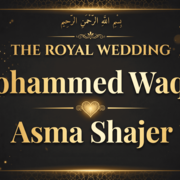
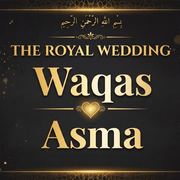
refactor(meta): update metadata and dynamic share URL
- Update social sharing icons and OpenGraph tags
- Update meta description and URL for better social indexing
- Introduce public URL normalization in ShareModal
- Use dynamic configuration for Valima timing and notes

diff --git a/index.html b/index.html
@@ -12,35 +12,42 @@
     <meta name="apple-mobile-web-app-status-bar-style" content="black-translucent" />
     <meta name="apple-mobile-web-app-title" content="Waqas & Asma" />
     <link rel="apple-touch-icon" sizes="180x180" href="/apple-touch-icon.png" />
-    <link rel="icon" type="image/png" sizes="192x192" href="/metaa.png" />
-    <link rel="image_src" href="/metaa.png" />
+    <link rel="icon" type="image/png" sizes="192x192" href="/icon-192.png" />
+    <link rel="icon" type="image/png" sizes="512x512" href="/icon-512.png" />
+    <link rel="image_src" href="https://ais-pre-fwru2o6zrcaaozjoec3zxz-933593385806.asia-east1.run.app/wmeta.jpg" />
 
-    <!-- OpenGraph & WhatsApp Social Preview Tags -->
+    <!-- OpenGraph & WhatsApp Social Preview Tags (WhatsApp Android & iPhone) -->
     <meta property="og:type" content="website" />
     <meta property="og:site_name" content="Mohammed Waqas & Asma Shajer" />
     <meta property="og:title" content="💍 Mohammed Waqas & Asma Shajer — Wedding Invitation" />
-    <meta property="og:description" content="Wedding Invitation of Mohammed Waqas & Asma Shajer · 31st December 2026" />
-    <meta property="og:image" content="/metaa.png" />
-    <meta property="og:image:secure_url" content="/metaa.png" />
+    <meta property="og:description" content="We cordially solicit your gracious presence, blessings & prayers at the Nikkah & Valima celebration on Thursday, 31st December 2026." />
+    <meta property="og:url" content="https://ais-pre-fwru2o6zrcaaozjoec3zxz-933593385806.asia-east1.run.app/" />
+
+    <!-- Primary Compressed Landscape Image (136 KB, < 300KB WhatsApp limit) -->
+    <meta property="og:image" content="https://ais-pre-fwru2o6zrcaaozjoec3zxz-933593385806.asia-east1.run.app/wmeta.jpg" />
+    <meta property="og:image:secure_url" content="https://ais-pre-fwru2o6zrcaaozjoec3zxz-933593385806.asia-east1.run.app/wmeta.jpg" />
+    <meta property="og:image:type" content="image/jpeg" />
+    <meta property="og:image:width" content="1200" />
+    <meta property="og:image:height" content="630" />
+    <meta property="og:image:alt" content="The Royal Wedding - Mohammed Waqas & Asma Shajer" />
+
+    <!-- Secondary PNG Image Fallback (268 KB) -->
+    <meta property="og:image" content="https://ais-pre-fwru2o6zrcaaozjoec3zxz-933593385806.asia-east1.run.app/wmeta.png" />
+    <meta property="og:image:secure_url" content="https://ais-pre-fwru2o6zrcaaozjoec3zxz-933593385806.asia-east1.run.app/wmeta.png" />
     <meta property="og:image:type" content="image/png" />
     <meta property="og:image:width" content="1200" />
-    <meta property="og:image:height" content="634" />
-    <meta property="og:image:alt" content="Mohammed Waqas & Asma Shajer Wedding Invitation" />
-
-    <!-- Secondary JPG Fallback for Maximum Mobile Scraper Compatibility -->
-    <meta property="og:image" content="/metaa.jpg" />
-    <meta property="og:image:type" content="image/jpeg" />
+    <meta property="og:image:height" content="630" />
 
     <!-- Google / Microdata Itemprop Tags (WhatsApp / Telegram crawler fallback) -->
     <meta itemprop="name" content="💍 Mohammed Waqas & Asma Shajer — Wedding Invitation" />
-    <meta itemprop="description" content="Wedding Invitation of Mohammed Waqas & Asma Shajer · 31st December 2026" />
-    <meta itemprop="image" content="/metaa.png" />
+    <meta itemprop="description" content="We cordially solicit your gracious presence, blessings & prayers at the Nikkah & Valima celebration on Thursday, 31st December 2026." />
+    <meta itemprop="image" content="https://ais-pre-fwru2o6zrcaaozjoec3zxz-933593385806.asia-east1.run.app/wmeta.jpg" />
     
     <!-- Twitter / X Card -->
     <meta name="twitter:card" content="summary_large_image" />
     <meta name="twitter:title" content="💍 Mohammed Waqas & Asma Shajer — Wedding Invitation" />
-    <meta name="twitter:description" content="Wedding Invitation of Mohammed Waqas & Asma Shajer · 31st December 2026" />
-    <meta name="twitter:image" content="/metaa.png" />
+    <meta name="twitter:description" content="We cordially solicit your gracious presence, blessings & prayers at the Nikkah & Valima celebration on Thursday, 31st December 2026." />
+    <meta name="twitter:image" content="https://ais-pre-fwru2o6zrcaaozjoec3zxz-933593385806.asia-east1.run.app/wmeta.jpg" />
 
     <!-- Schema.org Structured Data -->
     <script type="application/ld+json">

diff --git a/src/data/translations.ts b/src/data/translations.ts
@@ -25,6 +25,7 @@ export interface TranslationData {
   nikkahDesc: string;
   valimaTitle: string;
   valimaTime: string;
+  afterZuharNote: string;
   valimaVenue: string;
   valimaDesc: string;
   countdownDaysLeft: string;
@@ -93,7 +94,8 @@ export const translations: Record<Language, TranslationData> = {
     nikkahVenue: "Choti Masjid, Ambur",
     nikkahDesc: "The sacred solemnization of marriage according to the Sunnah of Prophet Muhammad (ﷺ).",
     valimaTitle: "Valima Reception",
-    valimaTime: "12:00 PM (After Zuhar Salah)",
+    valimaTime: "12:00 PM",
+    afterZuharNote: "(After Zuhar)",
     valimaVenue: "Buwa Shaadi Mahal, Ambur",
     valimaDesc: "The wedding feast celebration with family, loved ones, and esteemed guests.",
     countdownDaysLeft: "Days to Go",
@@ -160,7 +162,8 @@ export const translations: Record<Language, TranslationData> = {
     nikkahVenue: "چھوٹی مسجد، امبور",
     nikkahDesc: "سنتِ نبوی (ﷺ) کے مطابق تقریبِ نکاح کا پاکیزہ انعقاد۔",
     valimaTitle: "تقریبِ ولیمہ",
-    valimaTime: "دوپہر ۱۲:۰۰ بجے (بعد نمازِ ظہر)",
+    valimaTime: "دوپہر ۱۲:۰۰ بجے",
+    afterZuharNote: "(بعد نمازِ ظہر)",
     valimaVenue: "بووا شادی محل، امبور",
     valimaDesc: "معزز مہمانوں کے ساتھ پرمسرت ضیافتِ ولیمہ۔",
     countdownDaysLeft: "دن باقی ہیں",
@@ -227,7 +230,8 @@ export const translations: Record<Language, TranslationData> = {
     nikkahVenue: "சோட்டி மஸ்ஜித், ஆம்பூர்",
     nikkahDesc: "நபிகள் நாயகம் (ஸல்) அவர்களின் புனித சுன்னத்தின்படி நிக்காஹ் வைபவம் நடைபெறும்.",
     valimaTitle: "வலீமா வரவேற்பு விருந்து",
-    valimaTime: "நண்பகல் 12:00 மணி (ளுஹர் தொழுகைக்குப் பின்)",
+    valimaTime: "நண்பகல் 12:00 மணி",
+    afterZuharNote: "(ளுஹர் தொழுகைக்குப் பின்)",
     valimaVenue: "புவா ஷாதி மஹால், ஆம்பூர்",
     valimaDesc: "உற்றார், உறவினர்கள் மற்றும் நண்பர்களுக்கான திருமண விருந்து உபசரிப்பு.",
     countdownDaysLeft: "நாட்கள் மீதமுள்ளன",

diff --git a/src/components/ShareModal.tsx b/src/components/ShareModal.tsx
@@ -14,10 +14,28 @@ export const ShareModal: React.FC<ShareModalProps> = ({ isOpen, onClose, lang })
   const [copied, setCopied] = useState(false);
   const t = translations[lang];
 
+  const getPublicShareUrl = (): string => {
+    if (typeof window === 'undefined') return 'https://ais-pre-fwru2o6zrcaaozjoec3zxz-933593385806.asia-east1.run.app';
+    let url = window.location.href;
+    // Map internal AI Studio development URLs to public preview so WhatsApp and guests can access without login
+    if (url.includes('ais-dev-')) {
+      url = url.replace('ais-dev-', 'ais-pre-');
+    }
+    try {
+      const u = new URL(url);
+      u.search = '';
+      u.hash = '';
+      return u.toString();
+    } catch {
+      return url;
+    }
+  };
+
+  const currentUrl = getPublicShareUrl();
+
   useEffect(() => {
     if (isOpen) {
-      const inviteUrl = window.location.href;
-      QRCode.toDataURL(inviteUrl, {
+      QRCode.toDataURL(currentUrl, {
         width: 320,
         margin: 2,
         color: {
@@ -28,11 +46,9 @@ export const ShareModal: React.FC<ShareModalProps> = ({ isOpen, onClose, lang })
         .then((url) => setQrDataUrl(url))
         .catch((err) => console.error('Failed to generate QR code', err));
     }
-  }, [isOpen]);
+  }, [isOpen, currentUrl]);
 
   if (!isOpen) return null;
-
-  const currentUrl = typeof window !== 'undefined' ? window.location.href : '';
 
   const handleWhatsAppShare = () => {
     const message = t.whatsappMessage.includes('{link}')

diff --git a/src/components/CompactItinerary.tsx b/src/components/CompactItinerary.tsx
@@ -104,9 +104,9 @@ export const CompactItinerary: React.FC<CompactItineraryProps> = ({ lang }) => {
               </div>
               <p className="font-playfair text-sm sm:text-base font-bold text-white flex items-center gap-1">
                 <Clock className="w-3 h-3 text-[#D4AF37]" />
-                <span>12:00 PM</span>
+                <span>{t.valimaTime}</span>
                 <span className="text-[10px] text-neutral-400 font-normal ml-1">
-                  (After Zuhar)
+                  {t.afterZuharNote}
                 </span>
               </p>
               <p className="text-[11px] text-[#FDE68A] font-medium flex items-center gap-1 mt-0.5">

diff --git a/src/App.tsx b/src/App.tsx
@@ -421,7 +421,7 @@ export default function App() {
                     </div>
                     <div className="flex items-center gap-1 text-[11px] font-bold text-white bg-white/[0.05] px-2 py-0.5 rounded-full border border-white/[0.08]">
                       <Clock className="w-3 h-3 text-[#D4AF37]" />
-                      <span>12:00 PM</span>
+                      <span>{t.valimaTime}</span>
                     </div>
                   </div>
 
